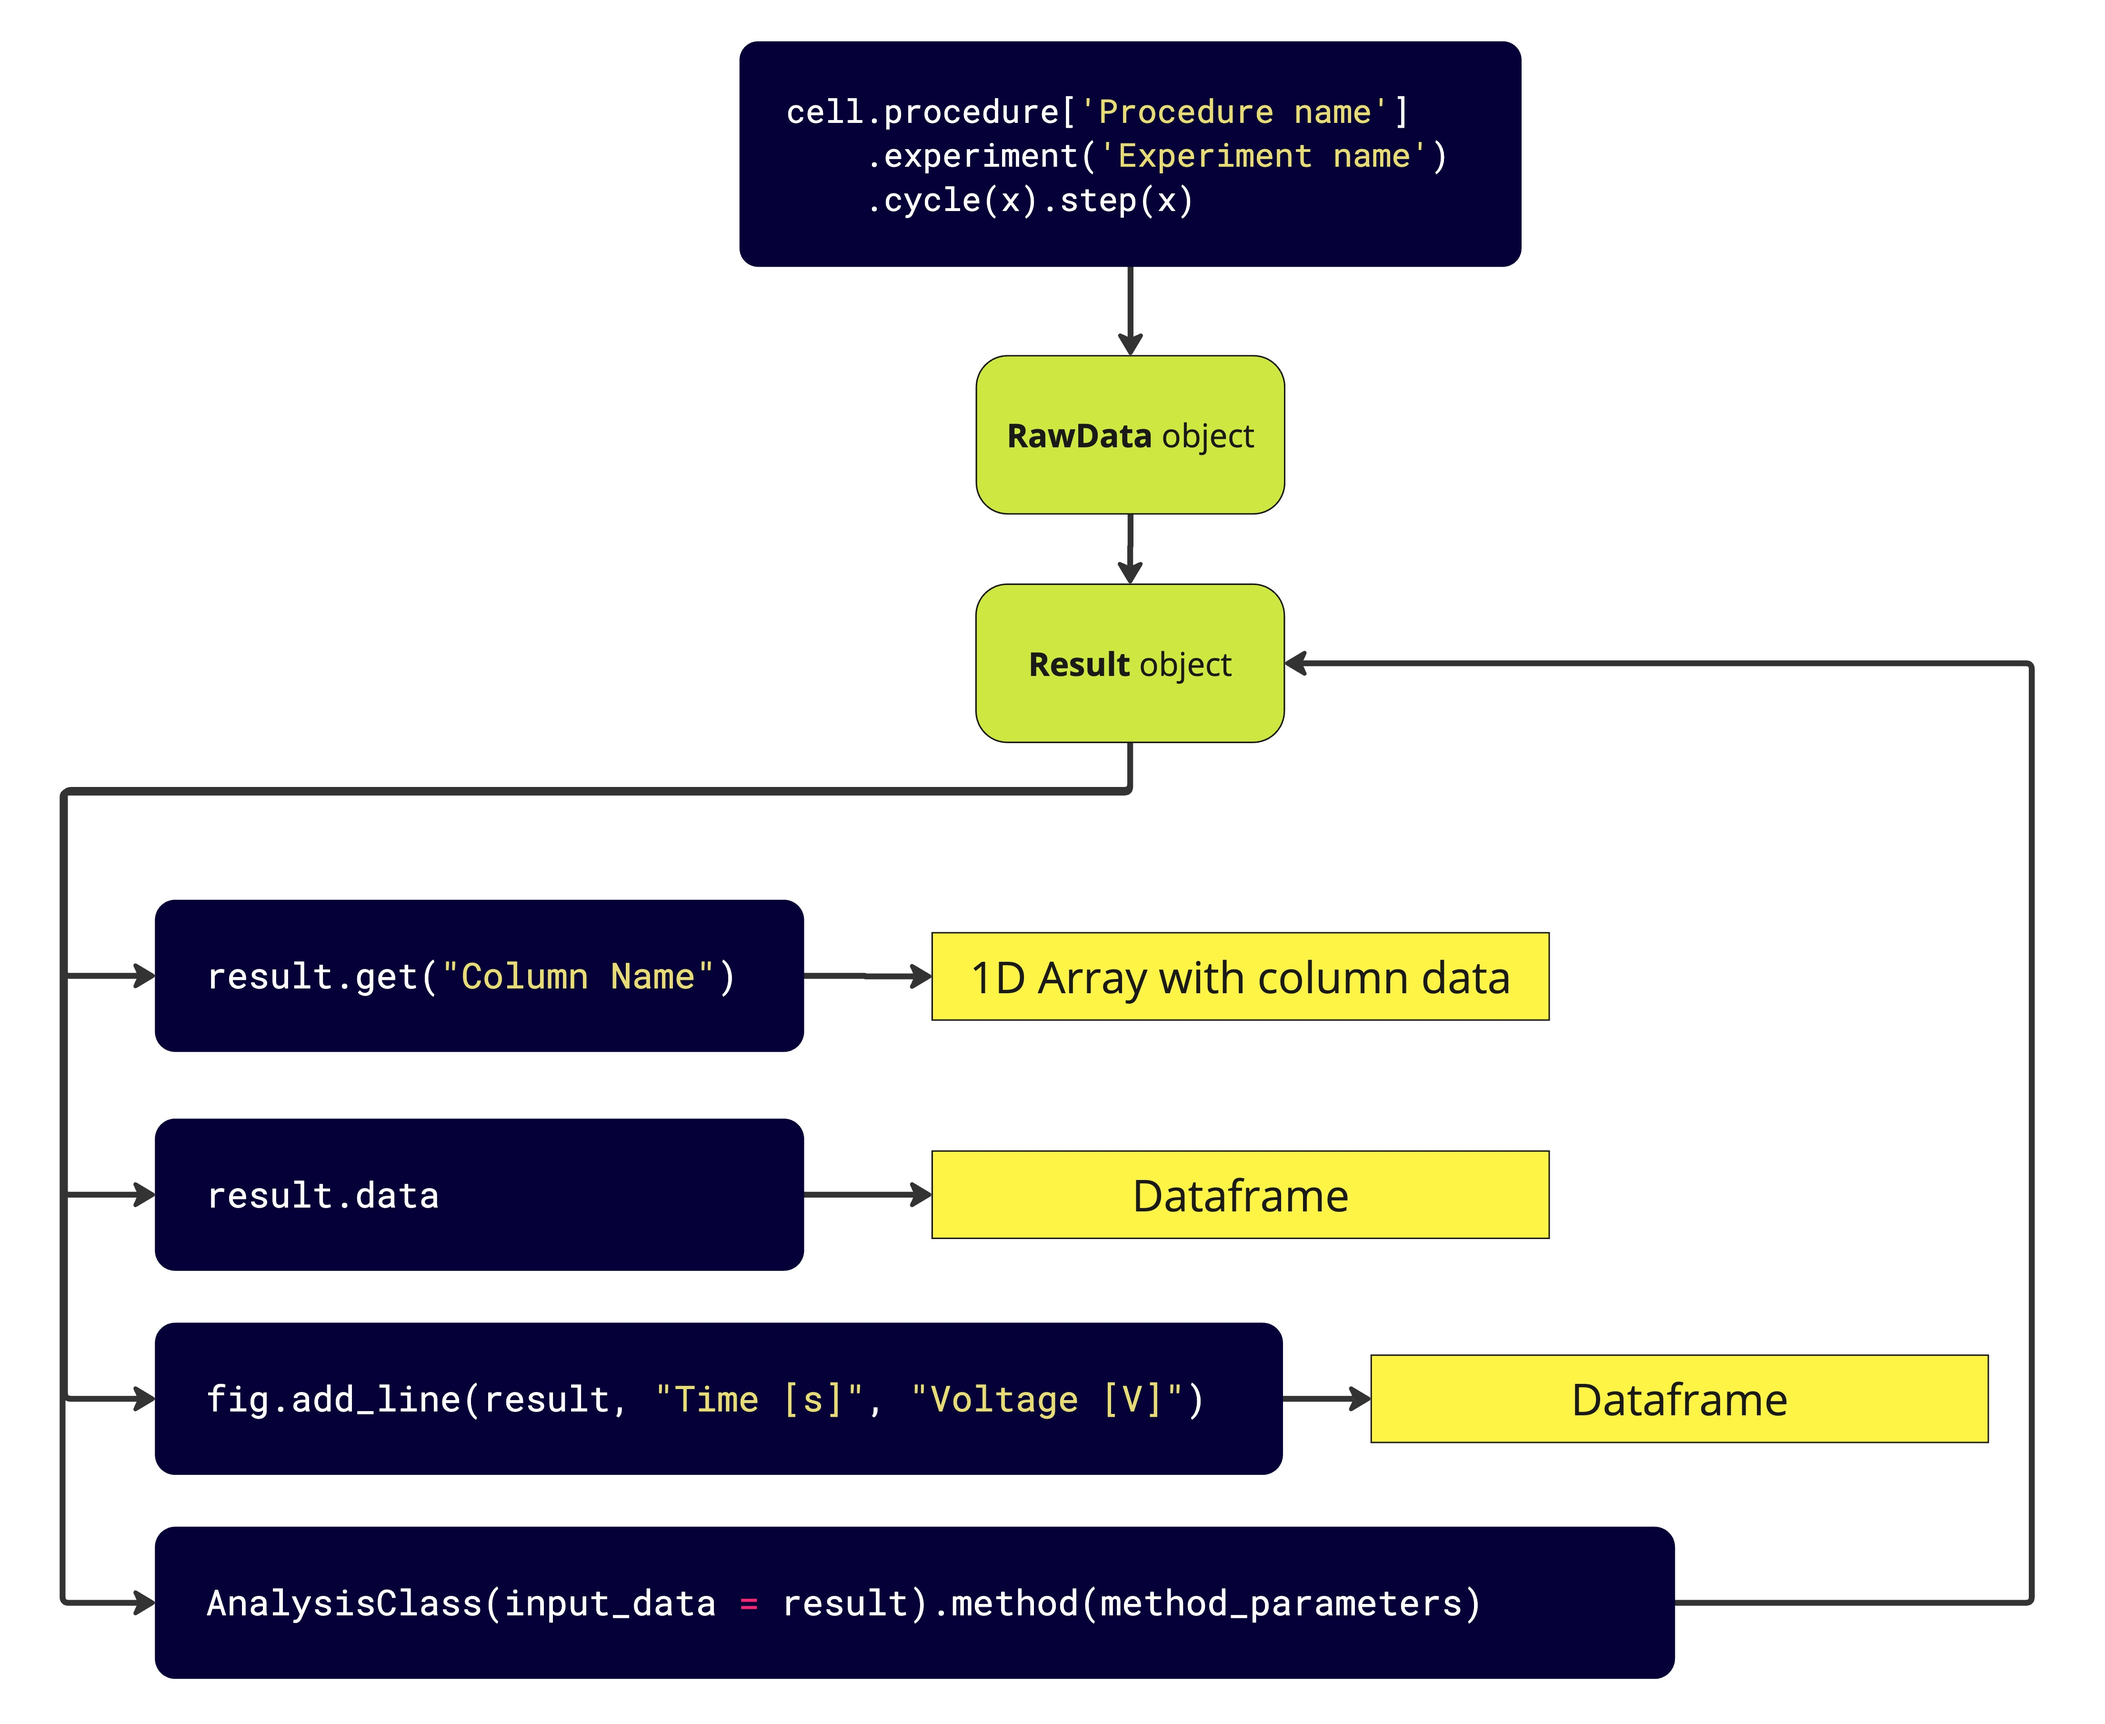
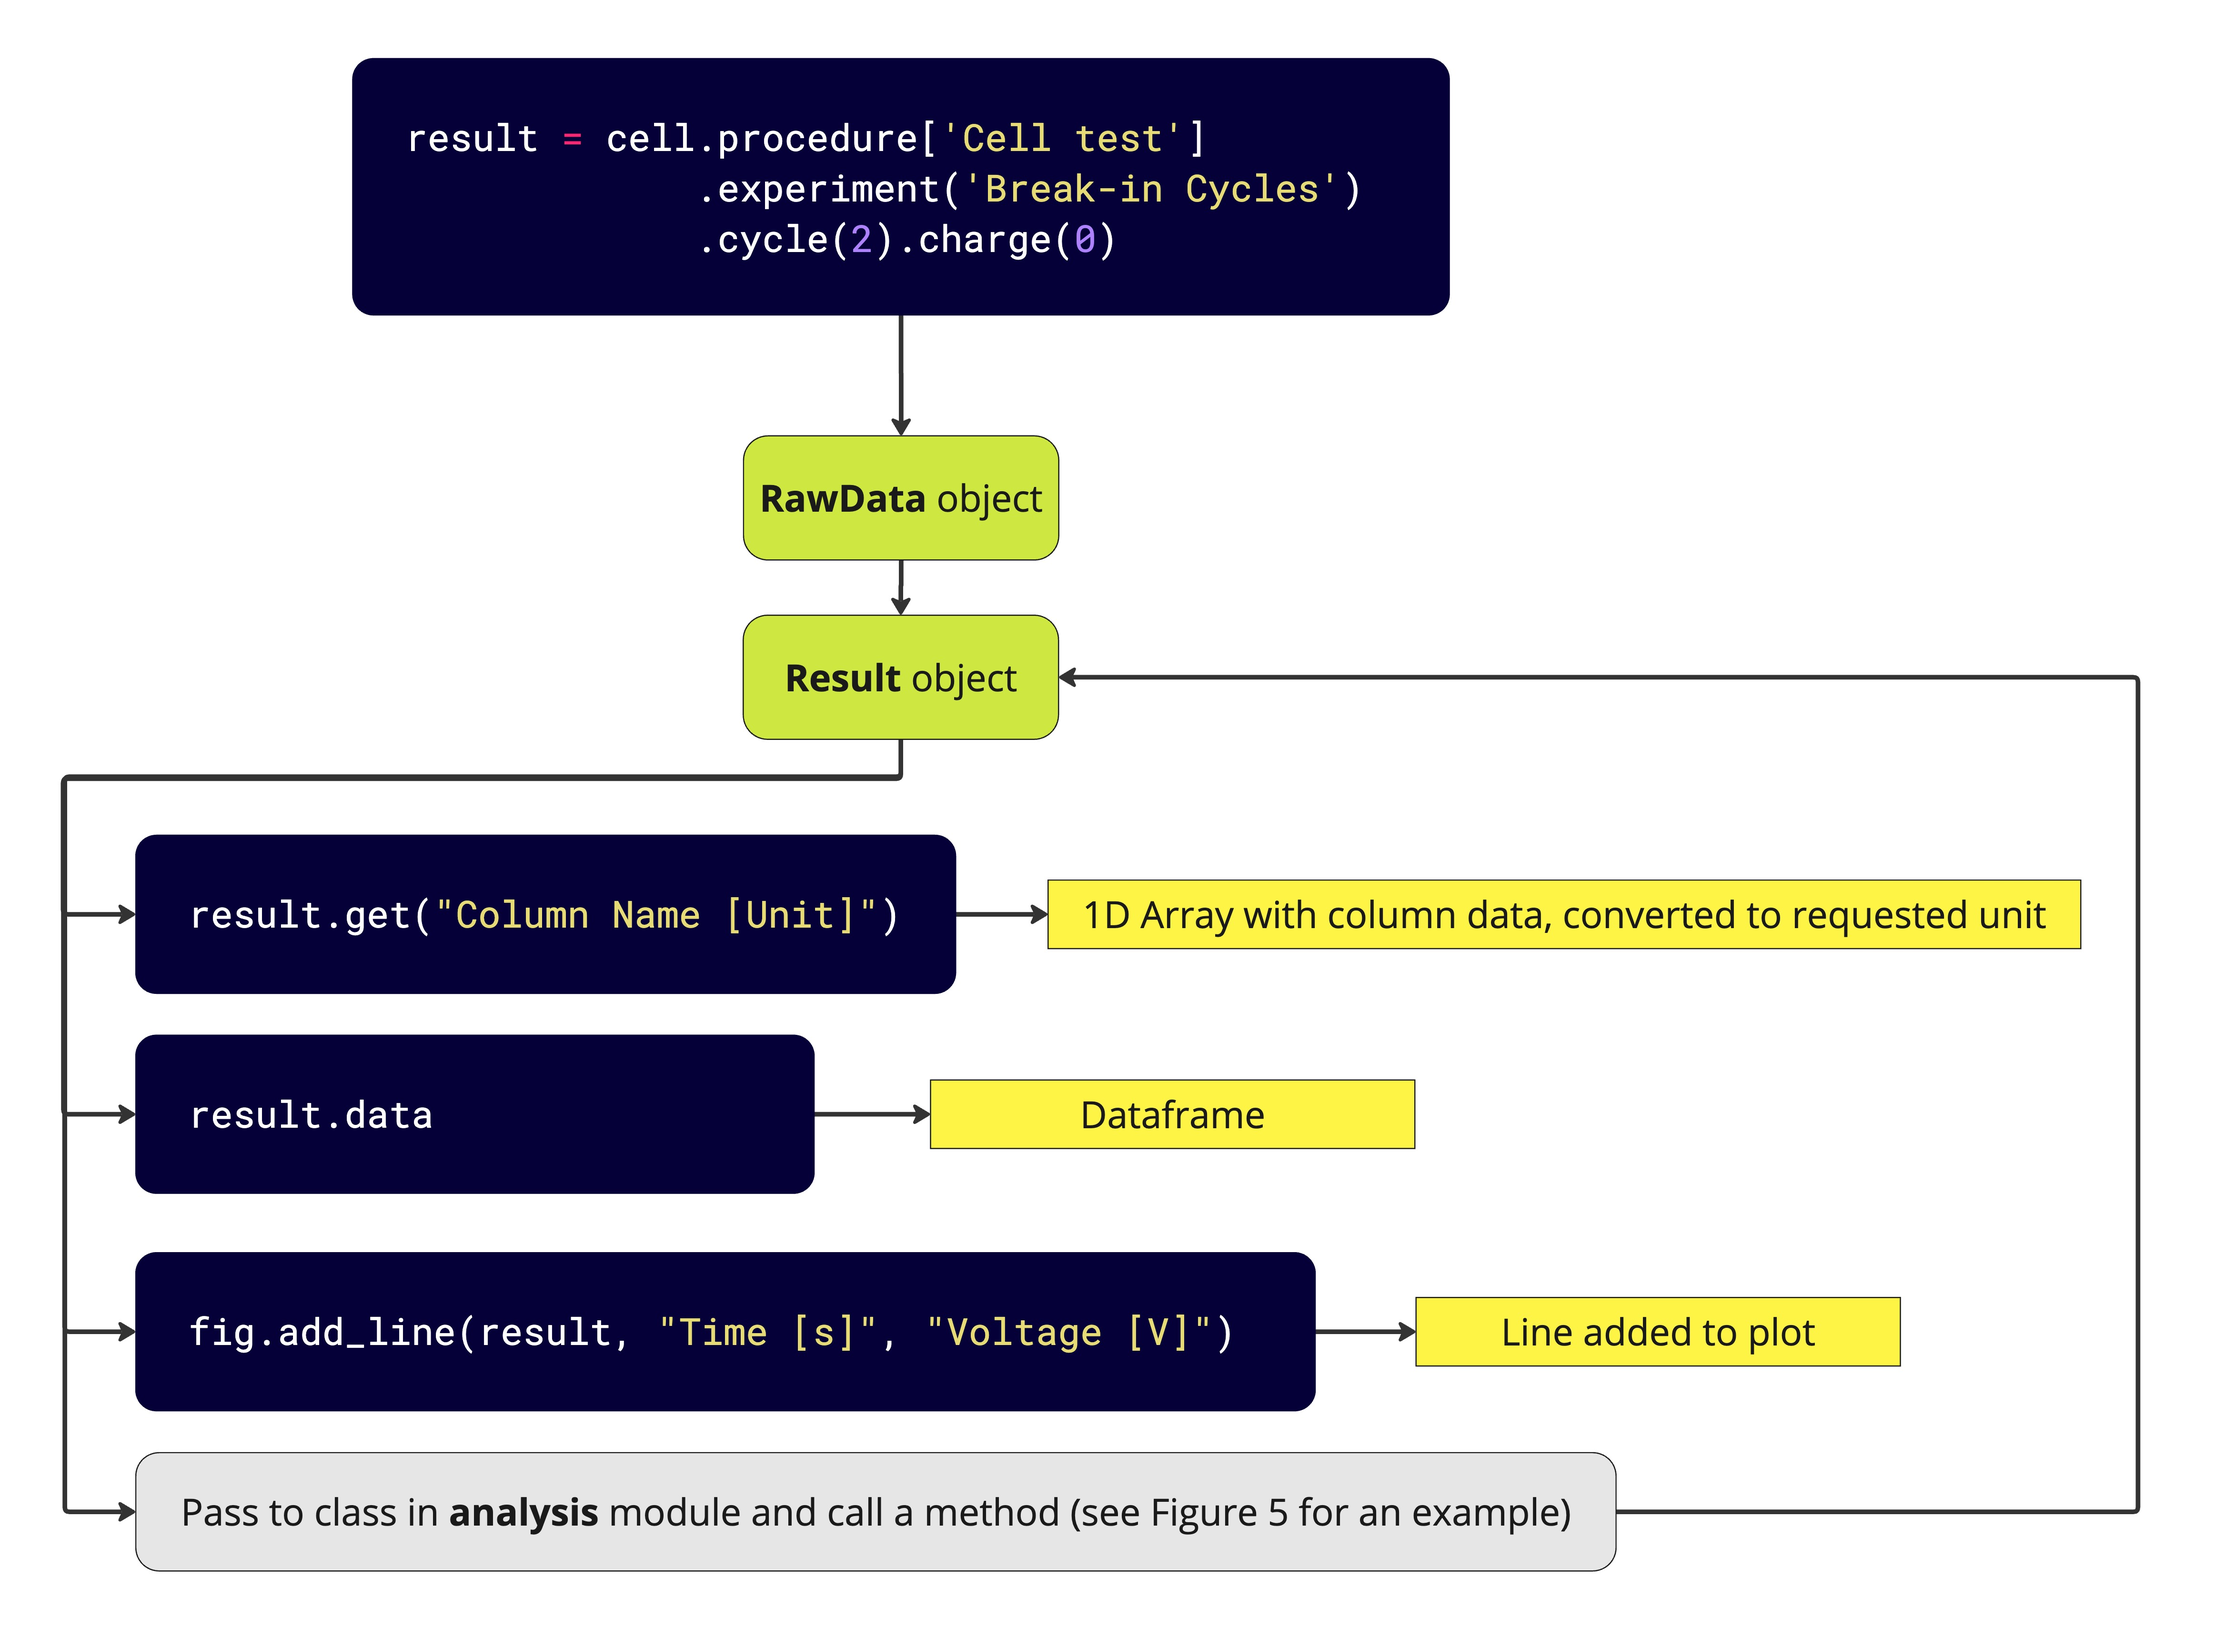
Update intro section of user guide

Changed region(s): [[0.0312, 0.0, 0.9679, 0.9953]]

diff --git a/docs/source/user_guide/introduction.rst b/docs/source/user_guide/introduction.rst
@@ -13,7 +13,7 @@ battery cyclers. It has four core objectives:
     that can be accessed with a few lines of code using natural language. The 
     procedure shown below:
 
-    .. image:: images/Procedures_and_experiments.png
+    .. image:: images/Procedures_and_experiments.jpg
 
    can be filtered with simple commands like:
 
@@ -27,10 +27,13 @@ battery cyclers. It has four core objectives:
 
    This makes it easy to quickly access the data you need for analysis.
 
+   See the :doc:`filtering data <../examples/filtering-data>` example to see this in action.
+
 2. Accelerate battery data exploration
     PyProBE has a built-in :ref:`plotting <plotting>` module for fast and flexible 
     visualisation of battery data. It also includes a graphical user interface (GUI) 
-    for exploring data interactively, with almost no code. 
+    for exploring data interactively, with almost no code. See the 
+    :doc:`getting started <../examples/getting-started>` example to try the GUI.
 
 3. Encourage data processing aligned with FAIR principles
     PyProBE is designed to encourage good practice for storing and processing data. The 
@@ -59,9 +62,10 @@ battery cyclers. It has four core objectives:
 
 PyProBE Structure
 -----------------
-Below is a flowchart of the data objects that make up PyProBE:
+Below is a flowchart of how a PyProBE :class:`~pyprobe.cell.Cell` object is structured
+and how the stored data can be filtered:
 
-.. image:: images/PyProBE_flowchart.png
+.. image:: images/Filtering_flowchart.jpg
 
 All data is stored in a :class:`~pyprobe.cell.Cell` object, which contains an
 :attr:`~pyprobe.cell.Cell.info` attribute for storing metadata and a 
